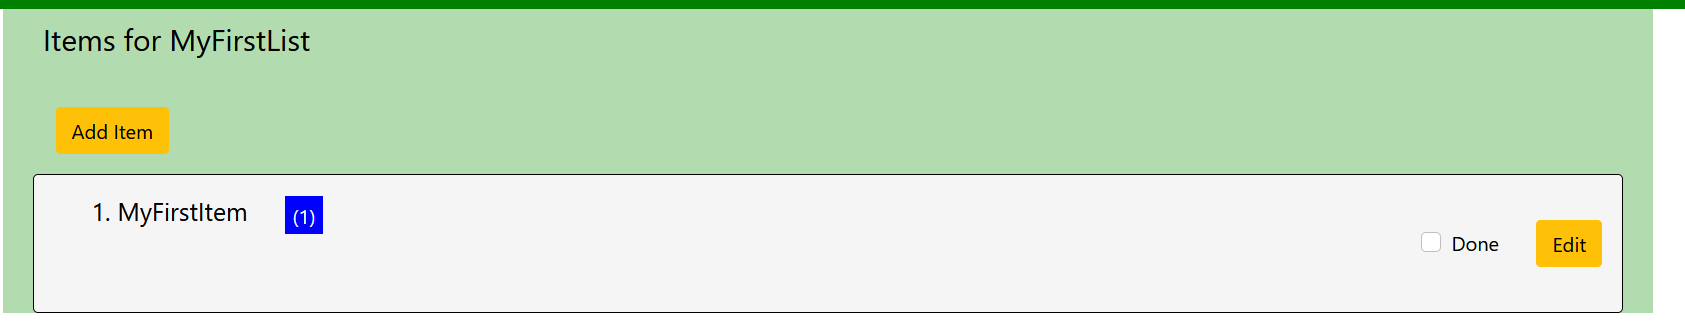
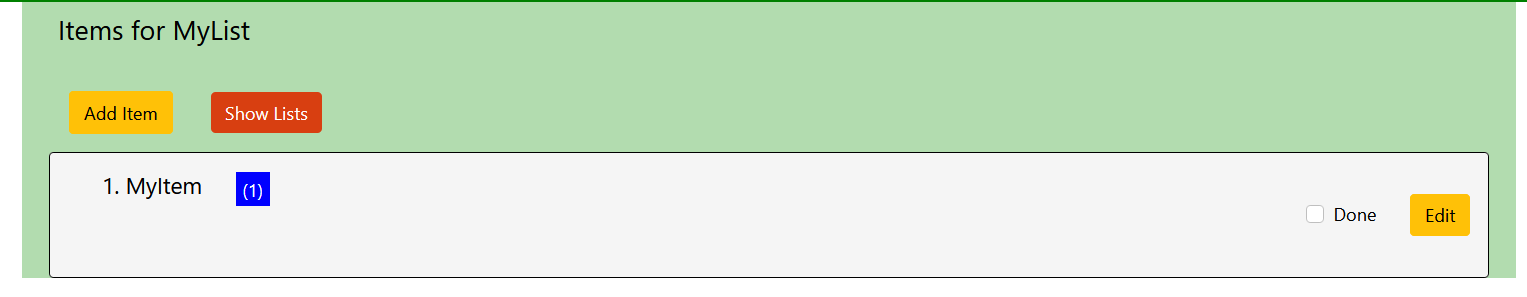
docs: Update testing and README for spelling and grammar
- Corrected spelling and grammar errors in testing.md
- Improved clarity and readability in README.md
- Ensured consistency across documentation

Changed region(s): [[0.0, 0.0, 1.0, 0.9697]]

diff --git a/shop_list/templates/shop_list/edit_item.html b/shop_list/templates/shop_list/edit_item.html
@@ -33,6 +33,10 @@ Edit Item
         <button type="submit" class="btn btn-warning custom-button">Delete Item</button>
     </form>
 
+    <form method="post" action="{% url 'show_items' list_id=shopping_list.id %}">
+        {% csrf_token %}
+        <button type="submit" class="btn btn-warning mt-3 custom-button">Show Items</button>
+    </form>
     {% else %}
     <!-- Display button for non-creators -->
     <form method="post" action="{% url 'duplicate_item' item_id=item.id %}">

diff --git a/templates/learn.html b/templates/learn.html
@@ -38,9 +38,7 @@
         <li>Item created
             <br><div class="step6-view-item"></div>
         </li>
-        <li>Show list view with item, click "home" in the navbar
-            <br><div class="step7-show-list"></div>
-        </li>
+        <li>Show list view with item, click "Show Lists" in the navbar</li>
         <li>View item from list view, click on the list title.
             <br><div class="step8-view-item-list"></div>
         </li>

diff --git a/staticfiles/css/style.css b/staticfiles/css/style.css
@@ -791,15 +791,6 @@ label[for="id_name"] {
     height: 200px;
 }
 
-.step7-show-list {
-    background-image: url('../images/step7_return_list_view.png');
-    background-size: contain;
-    background-repeat: no-repeat;
-    background-position: center;
-    width: 100%;
-    height: 200px;
-}
-
 .step8-view-item-list {
     background-image: url('../images/step8_view_list.png');
     background-size: contain;

diff --git a/TESTING.md b/TESTING.md
@@ -409,7 +409,6 @@ tems button (own lists)    | Click               | Items connected to the list d
 | "Done" check box               | Display             | Items/done status is updated correctly on page load    | Pass      |
 | "Done" check box               | Click               | Items/done status is updated correctly on page load    | Pass      |
 | "Edit" Button                  | Click               | Edit items page is displayed    | Pass      |
-| "Duplicate" Button             | Click               | Duplicate items page is displayed   | Pass      |
 
 
 ### Item separate page
@@ -430,7 +429,7 @@ tems button (own lists)    | Click               | Items connected to the list d
 | "Clone List" Button                  | Click               | Clone list page is displayed    | Pass      |
 | "Rename List" Button                 | Click               | Rename list items page is displayed    | Pass      |
 | "Delete list" Button                 | Click               | A confirmation message page is displayed    | Pass      |
-| "Items" Button                       | Click               | A separate edit items page is displayed    | Pass      |
+| "Show Items" Button                       | Click               | A separate edit items page is displayed    | Pass      |
 
 **Clone list: Create and confirm**
 | Element                       | Action                | Expected Result                                                                                                     | Pass/Fail |
@@ -439,9 +438,8 @@ tems button (own lists)    | Click               | Items connected to the list d
 | "Clone List" Button                  | Click               |  A confirmation message page is displayed    | Pass      |  Pass      |
 | Confirm message "OK" Button                  | Click               | The list is cloned, a confirmation page is displayed    | Pass      |
 | "Close"  Button                  | Click               | Page is closed, redirect to list view    | Pass      |
-Pass      |
 | Confirm message "Cancel" Button                  | Click               | The list is not cloned, return to the clone list page    | Pass      |
-| Input field                  | Click               |  Click | Display message if the input fields is left empty, no cloning will occur | Pass      |   | Pass   
+| Input field                  | Click               | Display message if the input fields is left empty, no cloning will occur | Pass      |   
 
 **Rename list: Create and confirm**
 | Element                       | Action                | Expected Result                                                                                                     | Pass/Fail |
@@ -450,7 +448,6 @@ Pass      |
 | "Rename List" Button                  | Click               |  A confirmation message page is displayed    | Pass      |  Pass      |
 | Confirm message "OK" Button                  | Click               | The list is renamed, a confirmation page is displayed    | Pass      |
 | "Close"  Button                  | Click               | The page is closed, redirect to the list view    | Pass      |
-Pass      |
 | Confirm message "Cancel" Button                  | Click               | The list is not renamed, return to the rename list page    | Pass      |
 | Input field                  | Click               |  Click | Display message if the input fields is left empty, no renaming will occur | Pass      |
 
@@ -460,15 +457,24 @@ Pass      |
 | "Delete List" Button                  | Click              |  A confirmation message page is displayed     | Pass      |
 | Confirm message "OK" Button                  | Click               | The list is deleted, a confirmation page is displayed    | Pass      |
 | "Close"  Button                  | Click               | The page is closed, redirect to the list view    | Pass      |
-Pass      |
 | Confirm message "Cancel" Button                  | Click               | The list is not deleted, return to the edit list page    | Pass      |
+
+### Edit Items page
+| Element                       | Action                | Expected Result                                                                                                     | Pass/Fail |
+|-------------------------------|-----------------------|---------------------------------------------------------------------------------------------------------------------|-----------|
+| "Duplicate Item" Button                  | Click               | Clone list page is displayed    | Pass      |
+| "Rename Item" Button                 | Click               | Rename list items page is displayed    | Pass      |
+| "Delete Item" Button                 | Click               | A confirmation message page is displayed    | Pass      |
+| "Show Items" Button                       | Click               | A separate edit items page is displayed    | Pass      |
+
 
 **Add item**
 | Element            | Action  | Expected Result                                                                                                         | Pass/Fail |
 |--------------------|---------|-------------------------------------------------------------------------------------------------------------------------|-----------|
 | "Add item" input field                  | Display               | The list which the item will be added to is displayed    | Pass      |
 | "Add Item" Button                  | Click               |  The item is added to the list  | Pass      |  
-
+| "Show Lists Button                 | Click               |  The user is redirected to list view  | Pass      | 
+| "Quantity" Input field values        | Click               | Only numeric positive values allowed for add item action  | Pass      |
 
 **Duplicate item: duplicate and confirm**
 | Element                       | Action                | Expected Result                                                                                                     | Pass/Fail |
@@ -477,7 +483,6 @@ Pass      |
 | "Duplicate Item"" Button                  | Click               |  A confirmation message page is displayed    | Pass      |  Pass      |
 | Confirm message "OK" Button                  | Click               | The item is duplicate, a confirmation page is displayed    | Pass      |
 | "Close"  Button                  | Click               |The page is closed, redirect to item view    | Pass      |
-Pass      |
 | Confirm message "Cancel" Button                  | Click               | The item is not duplicated, return to the duplicate item page    | Pass      |
 | Input field                  | Click               |  Click | Display message if the input fields is left empty, no duplication will occur | Pass      |   | Pass   
 
@@ -488,28 +493,18 @@ Pass      |
 | "Rename Item"" Button                  | Click               |  A confirmation message page is displayed    | Pass      |  Pass      |
 | Confirm message "OK" Button                  | Click               | The item is renamed, a confirmation page is displayed    | Pass      |
 | "Close"  Button                  | Click               |The page is closed, redirect to item view    | Pass      |
-Pass      |
 | Confirm message "Cancel" Button                  | Click               | The item is not renamed, return to the rename item page    | Pass      |
 | Input field                  | Click               | Display message if the input fields is left empty, no renaming will occur | Pass      |   
 
 
 **Delete item: delete and confirm**
-| Element       | Action | Expected Result                                                                                                        | Pass/Fail |
-|---------------|--------|------------------------------------------------------------------------------------------------------------------------|-----------|
-| "Delete List" Button                  | Click              |  A confirmation message page is displayed     | Pass      |
-| Confirm message "OK" Button                  | Click               | The list is deleted, a confirmation page is displayed    | Pass      |
-| "Close"  Button                  | Click               | The page is closed, redirect to the list view    | Pass      |
-Pass      |
-| Confirm message "Cancel" Button                  | Click               | The list is not deleted, return to the edit list page    | Pass      |
-
-**Navigation: **
 
 | Element                         | Action   | Expected Result                                               | Pass/Fail |
 |---------------------------------|----------|---------------------------------------------------------------|-----------|
 | "Delete List" Button            | Click    | A confirmation message page is displayed                      | Pass      |
 | Confirm message "OK" Button     | Click    | The list is deleted, a confirmation page is displayed         | Pass      |
-| "Close" Button                  | Click    | The page is closed, redirect to the list view                 | Pass      |
-| Confirm message "Cancel" Button | Click    | The list is not deleted, return to the edit list page         | Pass      |
+| "Close" Button                  | Click    | The page is closed, redirect to the item page view            | Pass      |
+| Confirm message "Cancel" Button | Click    | The list is not deleted, return to the edit item page         | Pass      |
 
 
 ## Bugs 

diff --git a/README.md b/README.md
@@ -329,11 +329,13 @@ In this section of the page, public lists are listed under 'Other Lists.'
 
 A list can be created from four different locations:
 
-1. Logged-out users: They can create a list by clicking the "Add list" button on the homepage.
+1. Logged-out users: They can create a list by clicking the ""Create Your List Now!" button on the homepage.
     - Click the "Create Your List Now!" button on the landing page-> Sign-in form is displayed.
     - Enter login credentials or sign up. Click "Sign in" or "Sign Up" -> Create list form is displayed.
-    - Enter a name for the list and click "Create" -> The list is created and user is directed to an add items page.
+    - Enter a name for the list and click "Create Shopping List" -> The list is created and user is directed to an add items page.
     - On the add item list page click "Show Lists" -> The latest created list will be displayed on the list view.
+
+![header](docs/readme_images/after_login.png)
 
 2. Logged-in: "Add list" button from list view.
     - Click the "Add list" button from list view -> Create list form is displayed.
@@ -634,6 +636,7 @@ To clone this repository follow the below steps:
 - [Bootstrap 5.0 Docs](https://getbootstrap.com/docs/5.0/getting-started/introduction//)
 - [Stack Overflow](https://stackoverflow.com/)
 - [Code Institute - Blog Walkthrough Project](https://github.com/Code-Institute-Solutions/Django3blog)
+- [iStockPhoto](https://www.istockphoto.com/se/foto/trying-not-to-forget-to-buy-everything-gm474481130-64696411)
 
 ## Acknowledgments
 
